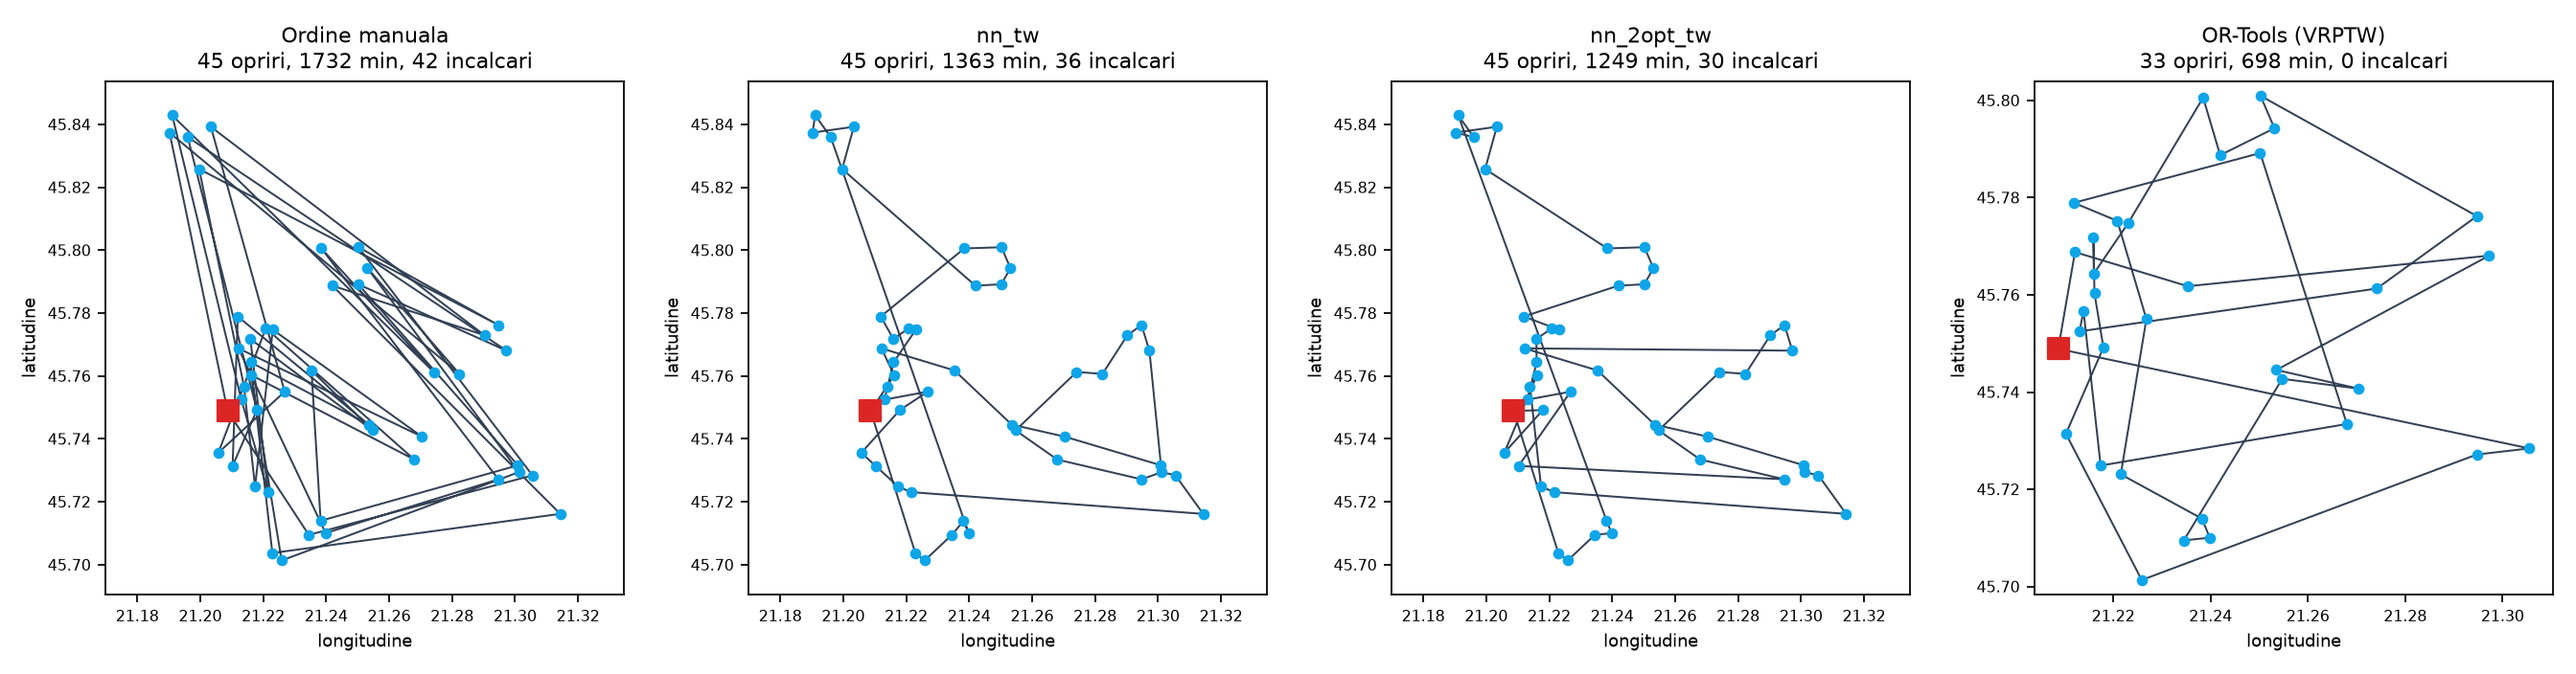
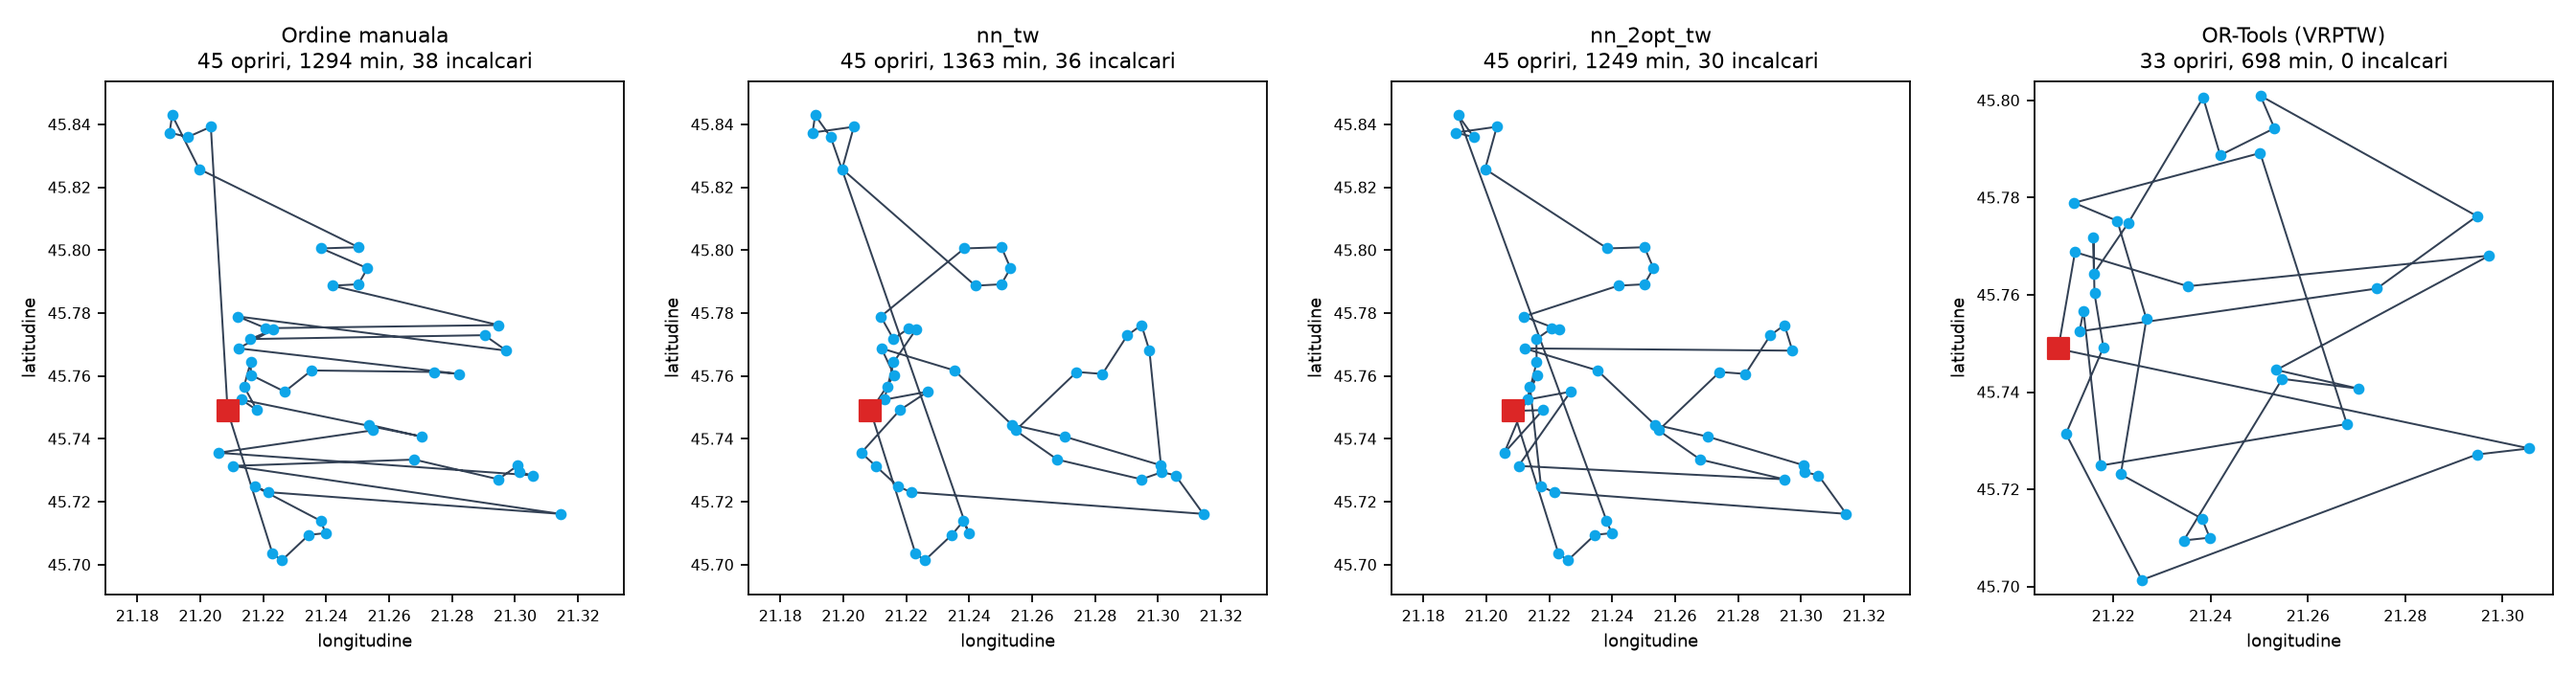
fix: restore /solve endpoint, zone-based manual ordering, updated figures

Changed region(s): [[0.0625, 0.1875, 0.2188, 0.8438]]

diff --git a/backend/src/services/routing.service.ts b/backend/src/services/routing.service.ts
@@ -497,6 +497,7 @@ export async function compareMethods(week: string, day: DeliveryDay) {
         start_location_index: 0,
         locations,
         travel_time_matrix: matrix,
+        coords,
     };
 
     const solverUrl = process.env.SOLVER_URL ?? "http://localhost:8000";

diff --git a/solver/main.py b/solver/main.py
@@ -26,10 +26,11 @@ class SolveRequest(BaseModel):
     start_location_index: int
     locations: list[Location]
     travel_time_matrix: list[list[int]]
+    coords: list[dict] | None = None
 
 def compute_route(order: list[int], request: SolveRequest, shift_start: int):
     matrix = request.travel_time_matrix
-    locations_by_index = {loc.index: loc for loc in request.locations} #locations_by_index = {0: <Location index=0, service=0, windows=...>, ...
+    locations_by_index = {loc.index: loc for loc in request.locations} 
 
     current_time = shift_start
     current_pos = request.start_location_index
@@ -136,7 +137,7 @@ def solve_with_ortools(request: SolveRequest):
         idx = manager.NodeToIndex(node_idx)
         time_dim.CumulVar(idx).SetRange(window[0], window[1])
 
-    # Capacitate: fiecare oprire consuma 1 unitate; depotul 0
+
     def demand_callback(from_index):
         node = manager.IndexToNode(from_index)
         return 0 if node == depot else 1
@@ -185,6 +186,29 @@ def solve_with_ortools(request: SolveRequest):
     dropped = [c for c in all_clients if c not in visited]
 
     return orders, dropped
+    
+@app.post("/solve")
+def solve(request: SolveRequest):
+    orders, dropped = solve_with_ortools(request)
+
+    routes = []
+    total_all = 0
+    for vehicle, order in zip(request.vehicles, orders):
+        stops, total, violations = compute_route(order, request, vehicle.shift_start)
+        routes.append({
+            "vehicle": vehicle.id,
+            "stops": stops,
+            "total_time_min": total,
+            "window_violations": violations
+        })
+        total_all += total
+
+    return {
+        "routes": routes,
+        "dropped": dropped,
+        "total_time_min": total_all
+    }
+
 
 @app.post("/compare")
 def compare(request: SolveRequest):
@@ -207,7 +231,7 @@ def compare(request: SolveRequest):
     results = []
 
     t0 = time.perf_counter()
-    order_manual = manual_order(clients)
+    order_manual = manual_order(clients, request.coords)
     t_manual = (time.perf_counter() - t0) * 1000
 
     t0 = time.perf_counter()

diff --git a/solver/heuristics.py b/solver/heuristics.py
@@ -91,5 +91,19 @@ def two_opt_tw(order, matrix, depot, windows, service_time, shift_start,
     return best
 
 
-def manual_order(clients):
-    return list(clients)
+def manual_order(clients, coords=None):
+    if coords is None:
+        return list(clients)
+
+    def zone_key(n):
+        return (round(coords[n]["lat"], 2), round(coords[n]["lon"], 2))
+
+    zones = {}
+    for n in clients:
+        zones.setdefault(zone_key(n), []).append(n)
+
+    order = []
+    for key in sorted(zones.keys()):
+        order.extend(zones[key])
+
+    return order
